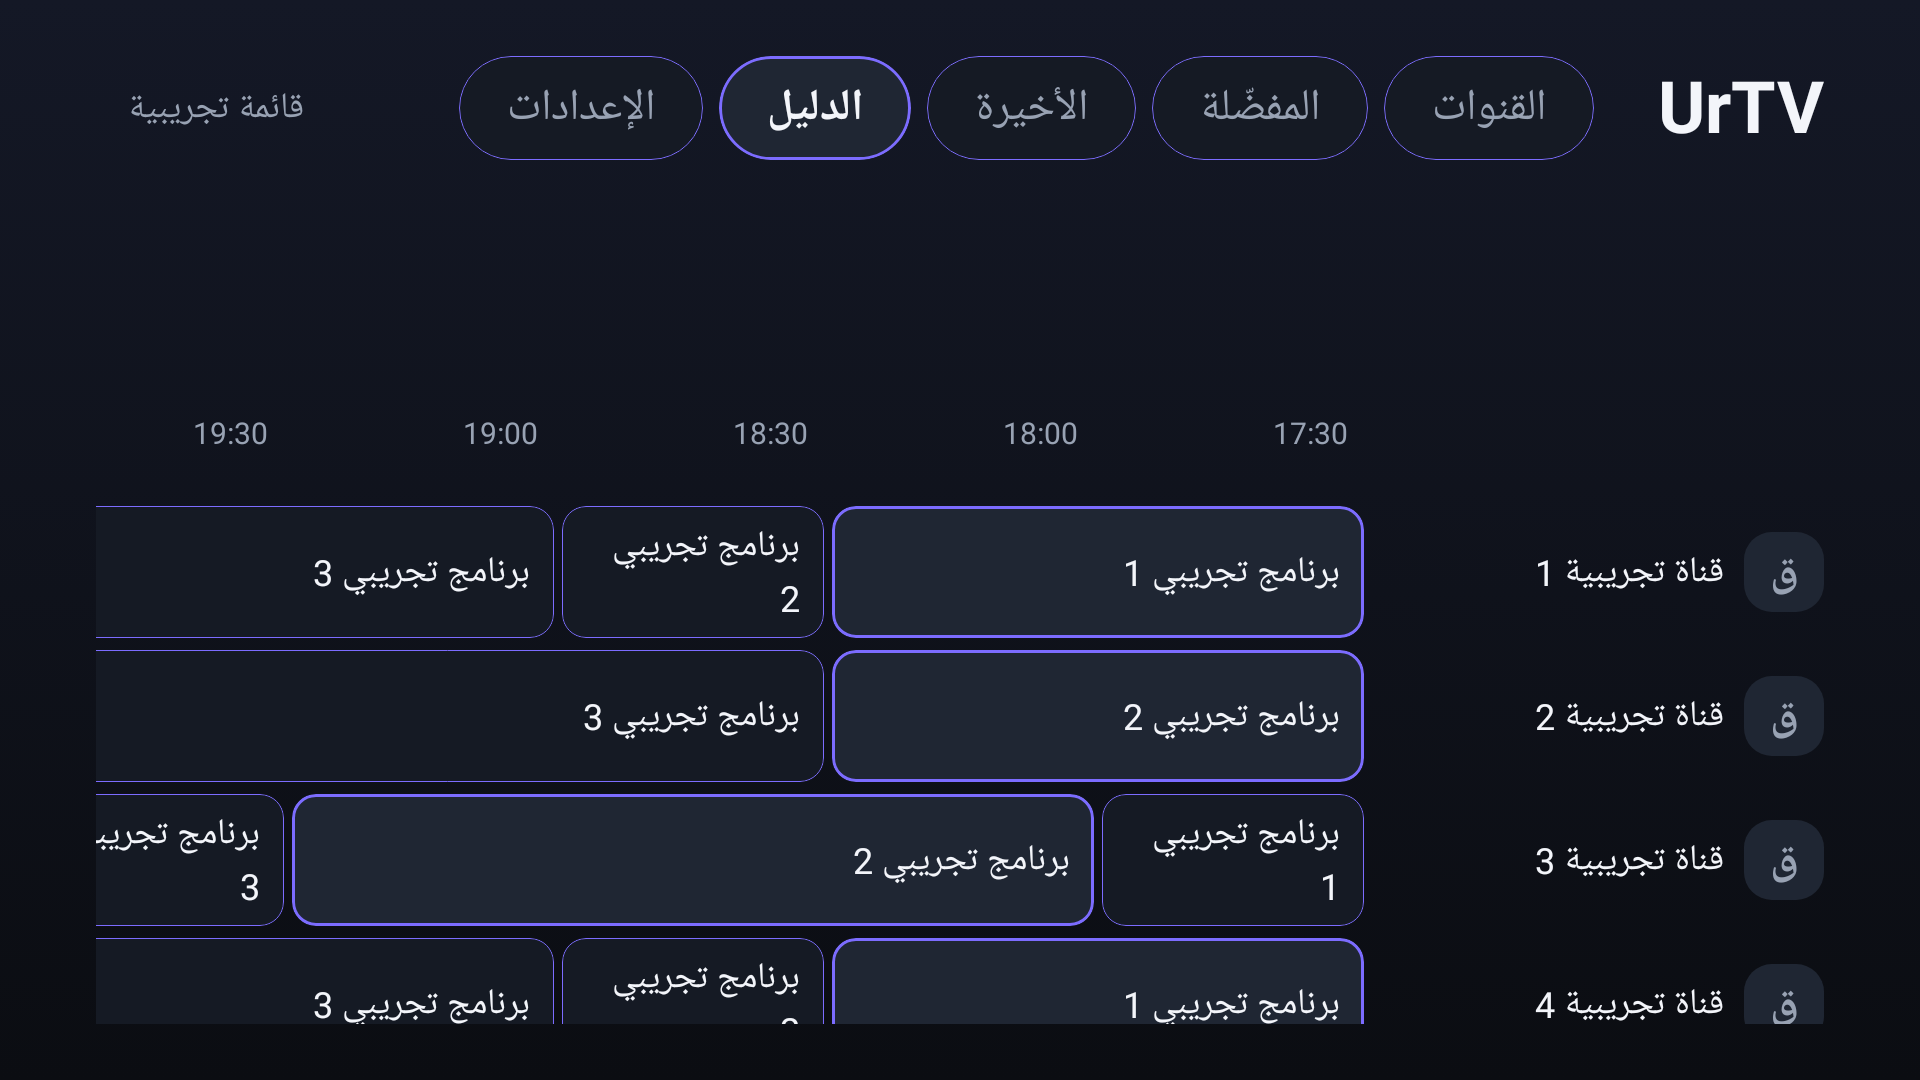
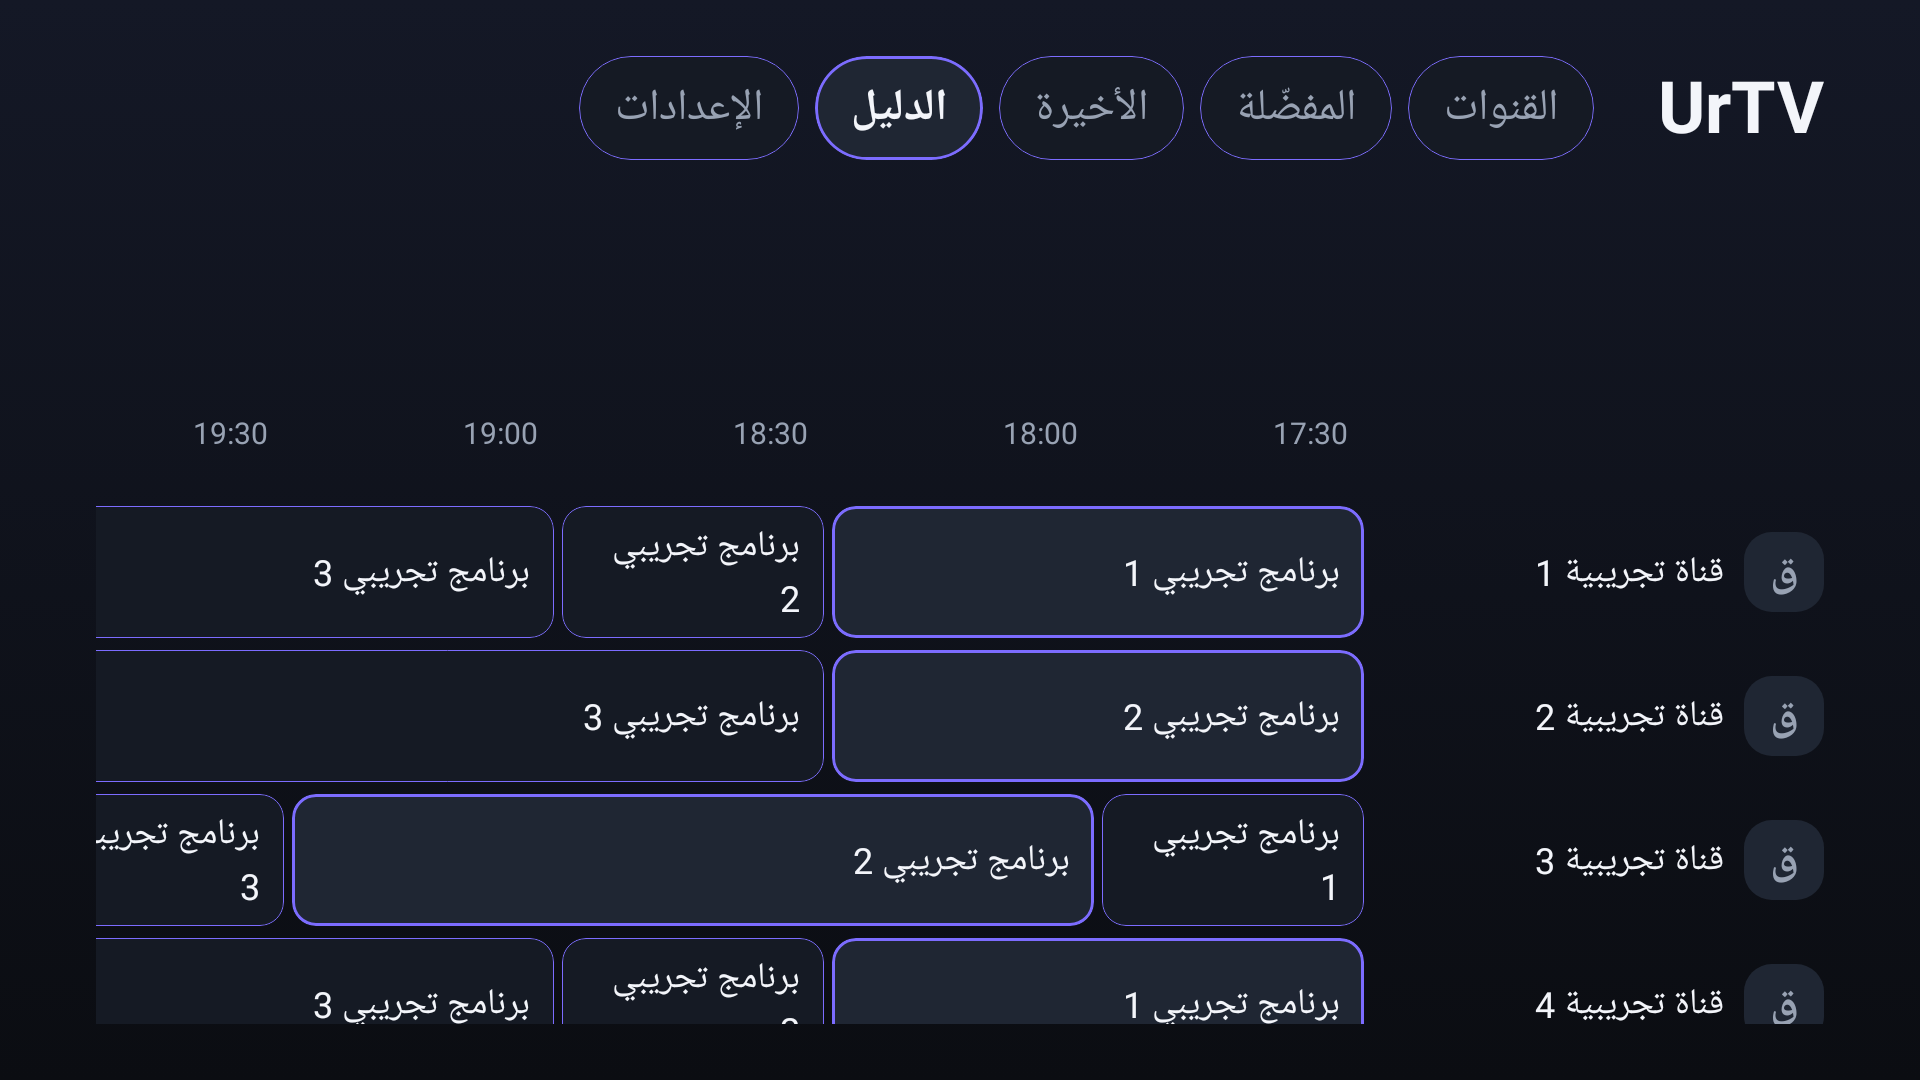
Streaming M3U parse; poster placeholders; header fits 7 tabs; screenshots for movies, series and English

diff --git a/app/src/main/kotlin/com/urtv/player/ui/Vod.kt b/app/src/main/kotlin/com/urtv/player/ui/Vod.kt
@@ -23,6 +23,7 @@ import androidx.compose.foundation.lazy.grid.LazyVerticalGrid
 import androidx.compose.foundation.lazy.grid.itemsIndexed
 import androidx.compose.foundation.lazy.items
 import androidx.compose.foundation.shape.RoundedCornerShape
+import androidx.compose.ui.draw.clip
 import androidx.compose.runtime.Composable
 import androidx.compose.runtime.LaunchedEffect
 import androidx.compose.runtime.collectAsState
@@ -92,7 +93,7 @@ fun PosterBrowse(app: UrtvApp, movies: Boolean, onOpen: (String) -> Unit) {
                         Text(stringResource(R.string.err_network), style = T.title); Spacer(Modifier.height(16.dp))
                         TvButton(stringResource(R.string.retry), { app.vod.open(app.store.playlists.value.firstOrNull { it.id == vod.playlistId }, true) }, primary = true) }
                     list.isEmpty() -> Text(stringResource(if (query.isBlank()) R.string.empty_group else R.string.no_results), style = T.body.copy(color = C.muted), modifier = Modifier.align(Alignment.Center))
-                    else -> LazyVerticalGrid(GridCells.Adaptive(170.dp), Modifier.fillMaxSize(), contentPadding = PaddingValues(12.dp),
+                    else -> LazyVerticalGrid(GridCells.Adaptive(140.dp), Modifier.fillMaxSize(), contentPadding = PaddingValues(12.dp),
                         horizontalArrangement = Arrangement.spacedBy(16.dp), verticalArrangement = Arrangement.spacedBy(16.dp)) {
                         itemsIndexed(list, key = { _, p -> p.id }) { _, p -> PosterCard(p) { onOpen(p.id) } }
                     }
@@ -105,6 +106,7 @@ fun PosterBrowse(app: UrtvApp, movies: Boolean, onOpen: (String) -> Unit) {
 @Composable
 private fun PosterCard(p: Poster, onClick: () -> Unit) {
     Tv(onClick, Modifier.fillMaxWidth().aspectRatio(0.68f), RoundedCornerShape(16.dp)) {
+        Placeholder(p.title)
         if (!p.image.isNullOrBlank()) SubcomposeAsyncImage(p.image, null, Modifier.fillMaxSize(), contentScale = ContentScale.Crop, loading = {}, error = {})
         Box(Modifier.fillMaxSize().background(Brush.verticalGradient(0.55f to Color.Transparent, 1f to Color(0xEE05070B))))
         Column(Modifier.align(Alignment.BottomStart).padding(12.dp)) {
@@ -114,11 +116,21 @@ private fun PosterCard(p: Poster, onClick: () -> Unit) {
     }
 }
 
+/** Calm tinted tile shown until (or instead of) a poster; the tint is derived from the title so it is stable. */
+@Composable
+private fun Placeholder(title: String) {
+    val h = (title.hashCode().toUInt() % 360u).toFloat()
+    Box(Modifier.fillMaxSize().background(Brush.linearGradient(listOf(Color.hsv(h, 0.35f, 0.32f), Color.hsv((h + 40) % 360, 0.45f, 0.18f)))), contentAlignment = Alignment.Center) {
+        Text(title.trim().take(1), style = T.display.copy(color = Color.White.copy(alpha = 0.35f)))
+    }
+}
+
 @Composable
 private fun DetailFrame(poster: String?, title: String, meta: String, plot: String, extra: String, buttons: @Composable () -> Unit, below: @Composable () -> Unit = {}) {
     Column(Modifier.fillMaxSize().background(C.bgBrush).padding(horizontal = 64.dp, vertical = 40.dp)) {
         Row(horizontalArrangement = Arrangement.spacedBy(40.dp)) {
-            Box(Modifier.width(240.dp).aspectRatio(0.68f).background(C.surface, RoundedCornerShape(20.dp)).let { it }) {
+            Box(Modifier.width(240.dp).aspectRatio(0.68f).clip(RoundedCornerShape(20.dp))) {
+                Placeholder(title)
                 if (!poster.isNullOrBlank()) SubcomposeAsyncImage(poster, null, Modifier.fillMaxSize(), contentScale = ContentScale.Crop, loading = {}, error = {})
             }
             Column(Modifier.weight(1f)) {

diff --git a/app/src/test/kotlin/com/urtv/player/ShotsTest.kt b/app/src/test/kotlin/com/urtv/player/ShotsTest.kt
@@ -68,6 +68,21 @@ class ShotsTest {
         check(!app.catalog.epg.value.isEmpty) { "epg not loaded: ${app.catalog.state.value}" }
     }
 
+    private fun seedXtream() {
+        app.store.addPlaylist(PlaylistDef("xt", "Example Xtream", "xtream", server = "http://example.com", user = "u", pass = "p"))
+        val dir = File(app.filesDir, "cache").apply { mkdirs() }
+        val cats = listOf("أكشن", "دراما", "كوميديا", "وثائقي")
+        File(dir, "movies_xt.tsv").writeText((1..30).joinToString("\n") { i ->
+            listOf("m$i", "فيلم تجريبي $i", "http://example.com/movie/u/p/$i.mp4", cats[i % cats.size], "", "%.1f".format(java.util.Locale.US, 5 + (i % 5) * 0.9), i.toString()).joinToString("\t")
+        } + "\n")
+        File(dir, "series_xt.tsv").writeText((1..12).joinToString("\n") { i ->
+            listOf("s$i", "مسلسل تجريبي $i", cats[i % cats.size], "", "7.5", "2022", i.toString(), "وصف قصير للمسلسل.").joinToString("\t")
+        } + "\n")
+        app.catalog.open("xt"); app.vod.open(app.store.playlists.value.first { it.id == "xt" })
+        repeat(100) { if (app.vod.state.value.movies.isNotEmpty()) return@repeat; shadowOf(android.os.Looper.getMainLooper()).idle(); Thread.sleep(50) }
+        check(app.vod.state.value.movies.isNotEmpty())
+    }
+
     private fun shot(name: String, content: @Composable () -> Unit) {
         val sc = ActivityScenario.launch(ComponentActivity::class.java)
         sc.onActivity { it.setContent { UrtvTheme { content() } } }
@@ -96,4 +111,9 @@ class ShotsTest {
     @Test fun pin() { shot("06-pin-ar") { PinPad("أدخل الرمز السري", null, 0, {}) {} } }
     @Test fun player() { seed(); val ch = app.catalog.state.value.channels[2]
         shot("07-player-ar") { PlayerScreen(app, app.catalog.state.value.channels, ch) {} } }
+
+    @Test fun movies() { seedXtream(); shot("08-movies-ar") { HomeScreen(app, Tab.Movies, {}, { _, _ -> }, {}, {}, null) } }
+    @Test fun series() { seedXtream(); shot("09-series-ar") { HomeScreen(app, Tab.Series, {}, { _, _ -> }, {}, {}, null) } }
+    @Test @Config(qualifiers = "en-w960dp-h540dp-xhdpi") fun homeEn() { seed(); shot("10-channels-en") { HomeScreen(app, Tab.Live, {}, { _, _ -> }, {}, {}, null) } }
+    @Test @Config(qualifiers = "en-w960dp-h540dp-xhdpi") fun settingsEn() { seed(); shot("11-settings-en") { HomeScreen(app, Tab.Settings, {}, { _, _ -> }, {}, {}, null) } }
 }

diff --git a/app/src/main/kotlin/com/urtv/player/ui/Home.kt b/app/src/main/kotlin/com/urtv/player/ui/Home.kt
@@ -89,12 +89,11 @@ fun HomeScreen(
                     val label = stringResource(when (t) { Tab.Live -> R.string.tab_live; Tab.Movies -> R.string.tab_movies; Tab.Series -> R.string.tab_series; Tab.Favs -> R.string.tab_favs; Tab.Recents -> R.string.tab_recents; Tab.Guide -> R.string.tab_guide; Tab.Settings -> R.string.tab_settings })
                     Tv({ onTab(t) }, Modifier.height(52.dp), RoundedCornerShape(26.dp), selected = t == tab, onFocus = { if (it) onTab(t) },
                         focusRequester = if (t == tab) tabFocus else null) {
-                        Text(label, style = if (t == tab) T.bodyBold else T.body.copy(color = C.muted), modifier = Modifier.align(Alignment.Center).padding(horizontal = 24.dp))
+                        Text(label, style = if (t == tab) T.bodyBold else T.body.copy(color = C.muted), modifier = Modifier.align(Alignment.Center).padding(horizontal = 18.dp), maxLines = 1, softWrap = false)
                     }
                 }
             }
             Spacer(Modifier.weight(1f))
-            if (active != null) Text(active.name, style = T.small, maxLines = 1, overflow = TextOverflow.Ellipsis, modifier = Modifier.widthIn(max = 200.dp).padding(horizontal = 16.dp))
         }
         Spacer(Modifier.height(16.dp))
         Box(Modifier.weight(1f).fillMaxWidth()) {

diff --git a/core/src/main/kotlin/com/urtv/player/core/M3uParser.kt b/core/src/main/kotlin/com/urtv/player/core/M3uParser.kt
@@ -5,15 +5,18 @@ object M3uParser {
     private val ATTR = Regex("""([A-Za-z0-9_\-]+)\s*=\s*(?:"([^"]*)"|'([^']*)'|([^\s,"']+))""")
     private val SCHEMES = listOf("http://", "https://", "rtmp://", "rtsp://", "udp://", "rtp://", "file://")
 
-    fun parse(text: String): ParsedPlaylist {
+    fun parse(text: String): ParsedPlaylist = parse(text.removePrefix("\uFEFF").lineSequence())
+
+    /** Streaming variant: reads one line at a time, so very large playlists never sit in memory as one String. */
+    fun parse(lines: Sequence<String>): ParsedPlaylist {
         val channels = ArrayList<Channel>()
         val epg = LinkedHashSet<String>()
         var skipped = 0
         var pending: Pending? = null
         var group = ""
 
-        for (raw in text.removePrefix("").lineSequence()) {
-            val line = raw.trim()
+        for (raw in lines) {
+            val line = raw.trim().removePrefix("\uFEFF")
             if (line.isEmpty()) continue
             when {
                 line.startsWith("#EXTM3U", true) -> {

diff --git a/app/src/main/kotlin/com/urtv/player/data/Catalog.kt b/app/src/main/kotlin/com/urtv/player/data/Catalog.kt
@@ -75,7 +75,7 @@ class Catalog(ctx: Context, private val store: Store, private val scope: Corouti
             val parsed = XtreamParser.parseStreams(Http.text(acc.streamsUrl()), acc, cats)
             return parsed.channels to parsed.epgUrls
         }
-        val parsed = M3uParser.parse(Http.text(def.url))
+        val parsed = Http.open(def.url).bufferedReader(Charsets.UTF_8).use { r -> M3uParser.parse(r.lineSequence()) }
         return parsed.channels to parsed.epgUrls
     }
 
